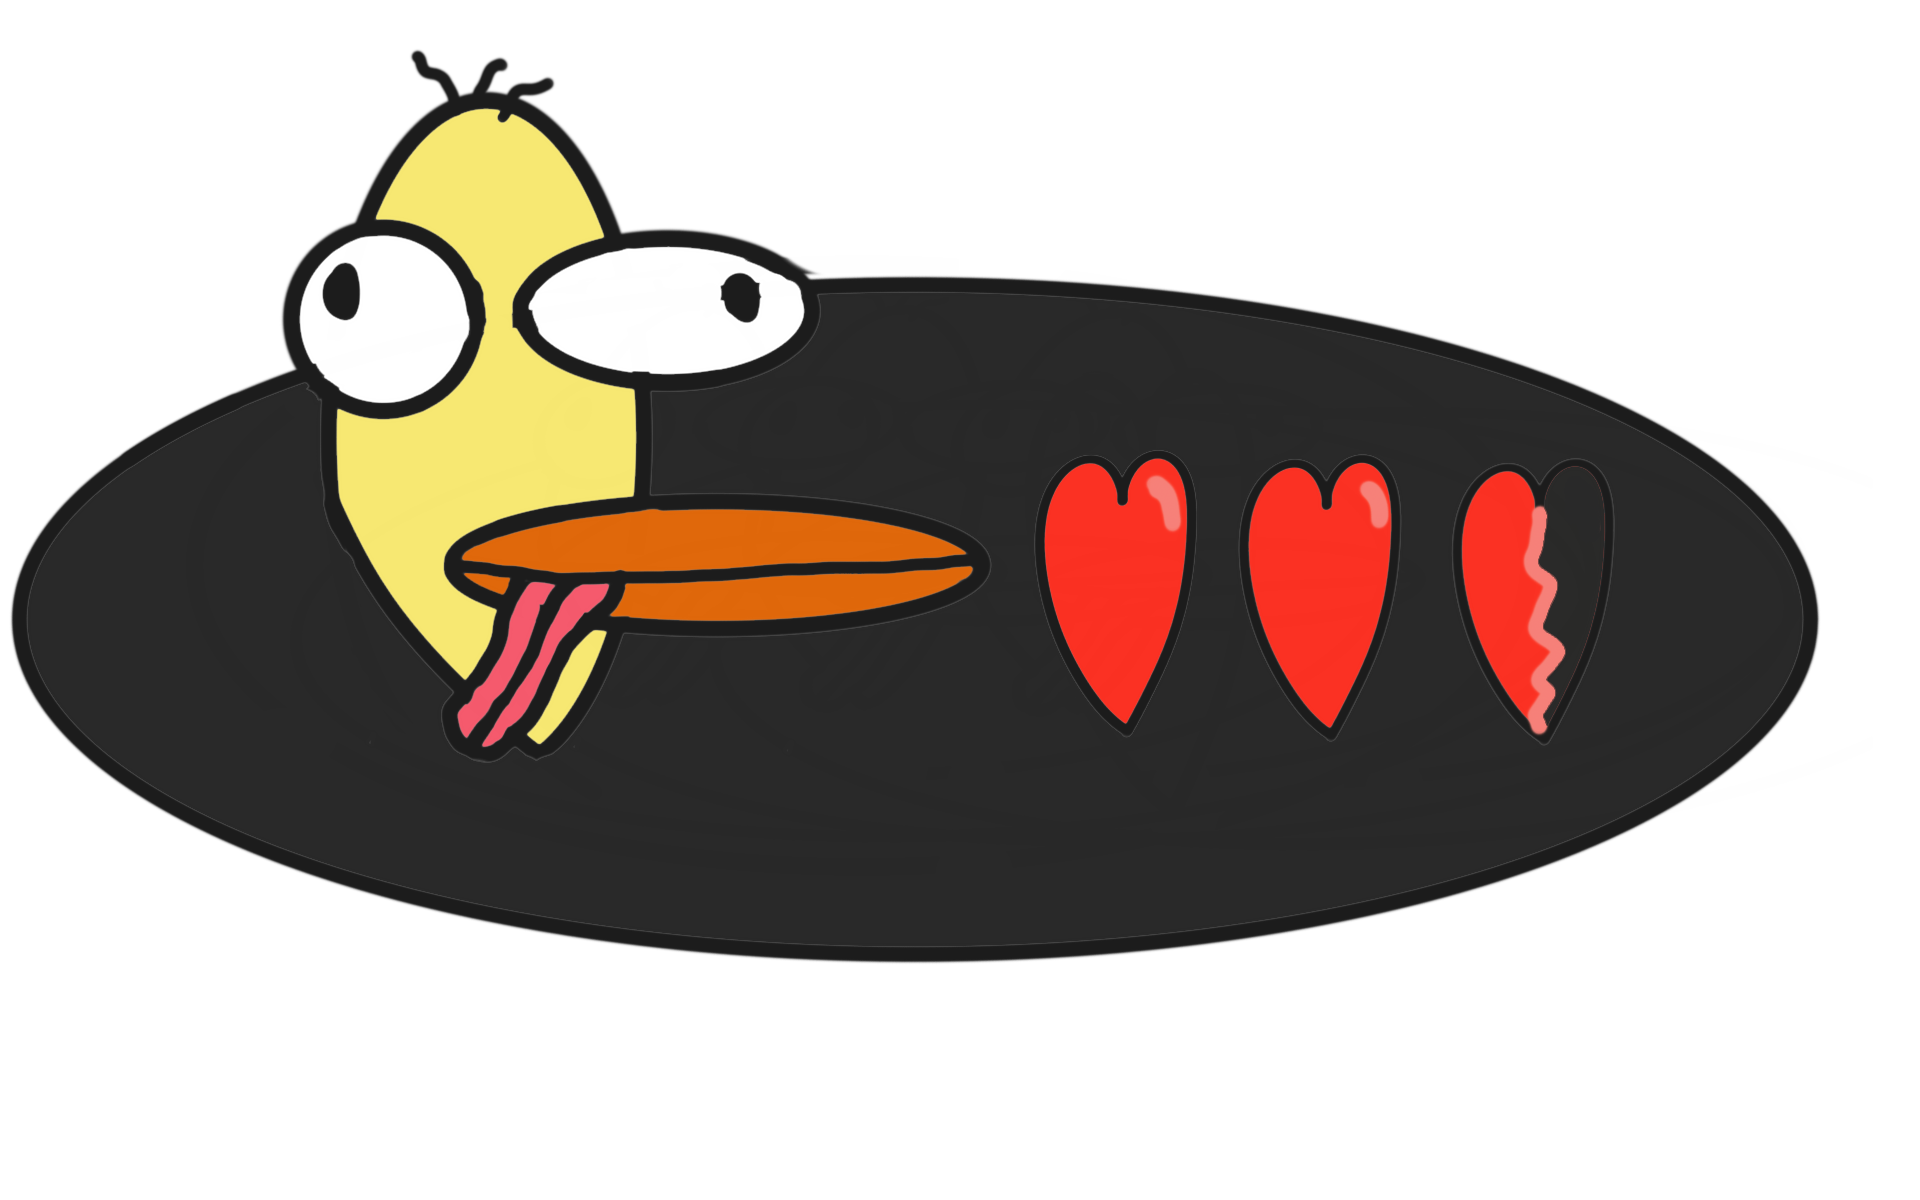
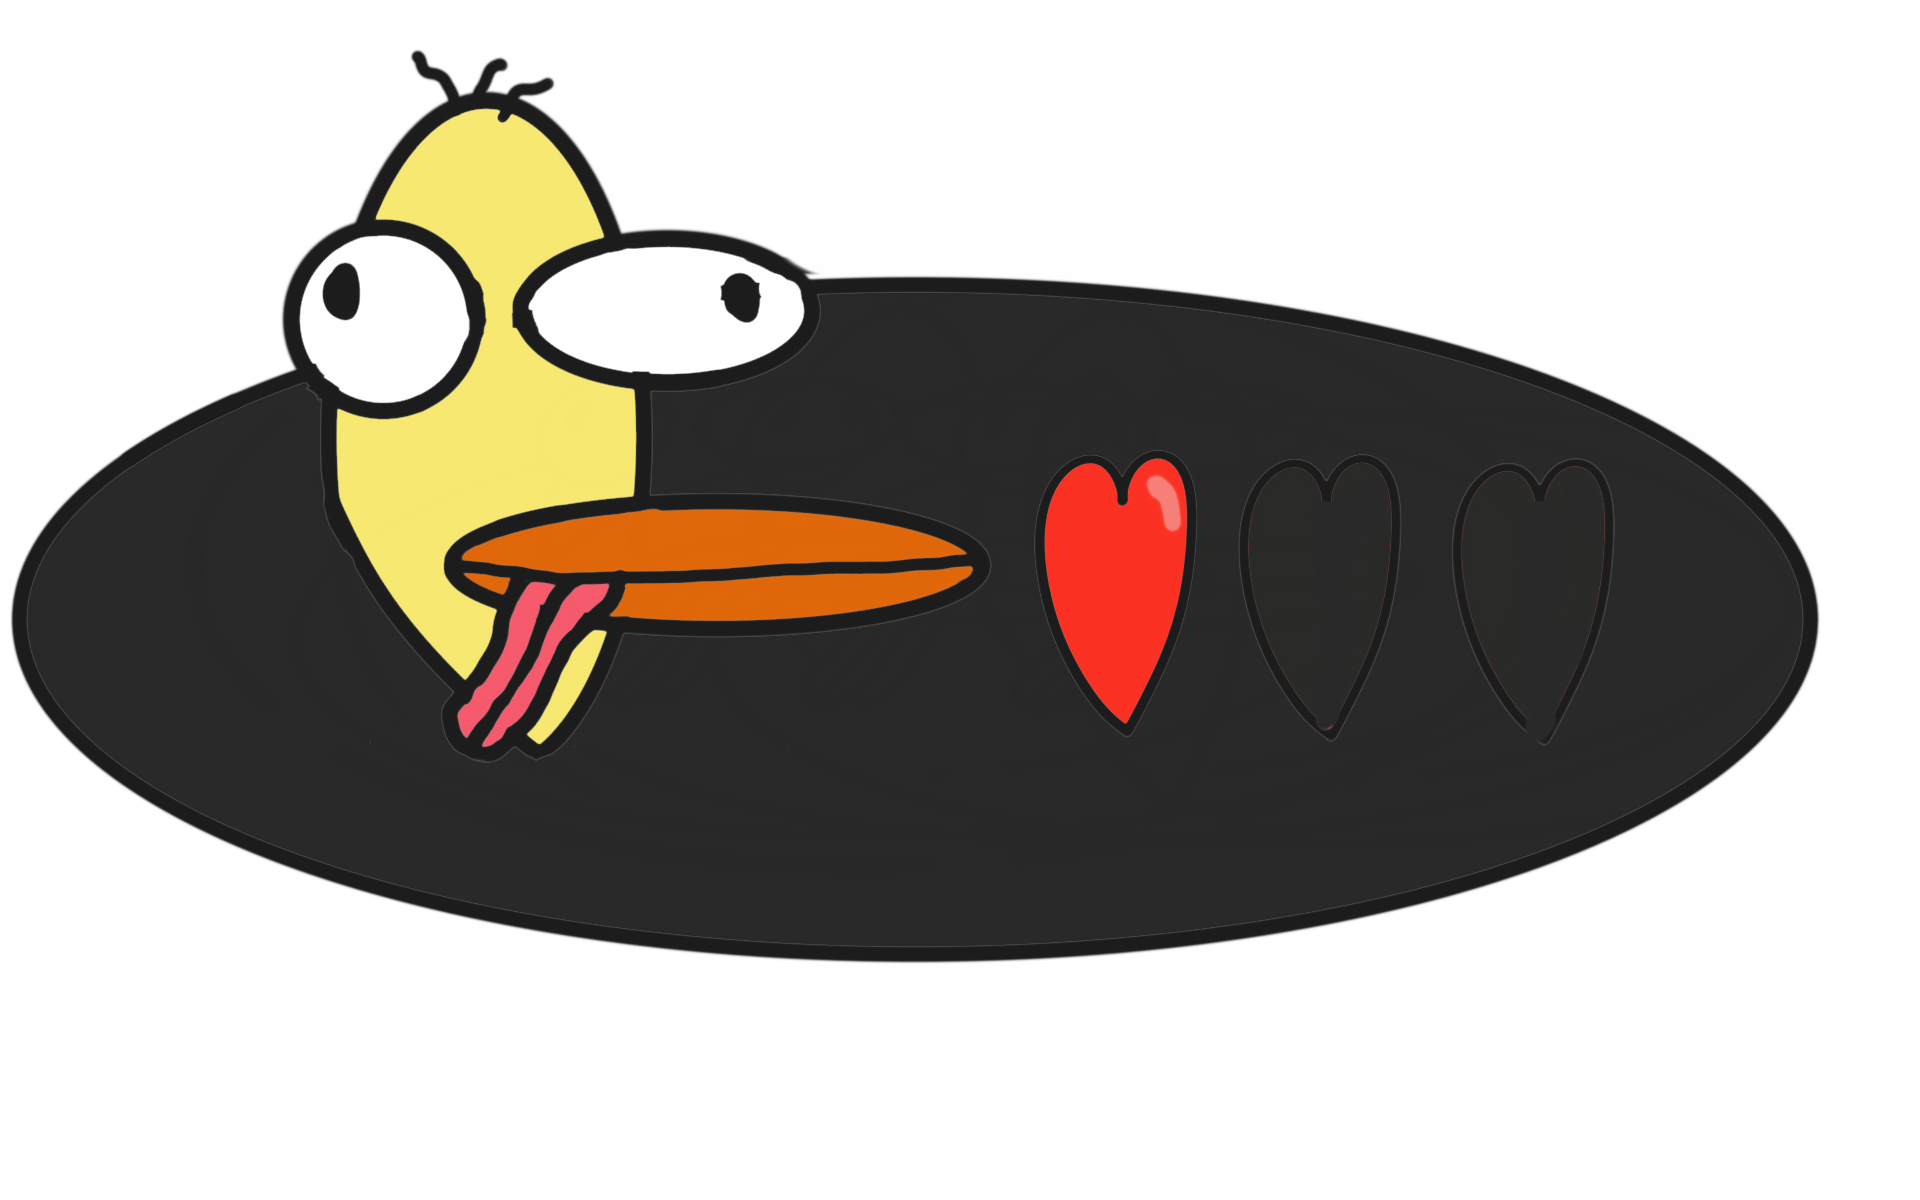
Update v1.2
Got the damage and death state to change the animations

Changed region(s): [[0.625, 0.37, 0.8125, 0.6167]]

diff --git a/Super Bird Game Prototype/core/src/com/procode/game/scenes/HUD.java b/Super Bird Game Prototype/core/src/com/procode/game/scenes/HUD.java
@@ -3,12 +3,15 @@ package com.procode.game.scenes;
 import com.badlogic.gdx.Gdx;
 import com.badlogic.gdx.graphics.Color;
 import com.badlogic.gdx.graphics.OrthographicCamera;
+import com.badlogic.gdx.graphics.Texture;
 import com.badlogic.gdx.graphics.g2d.BitmapFont;
 import com.badlogic.gdx.graphics.g2d.SpriteBatch;
+import com.badlogic.gdx.graphics.g2d.TextureRegion;
 import com.badlogic.gdx.scenes.scene2d.Stage;
 import com.badlogic.gdx.scenes.scene2d.ui.Image;
 import com.badlogic.gdx.scenes.scene2d.ui.Label;
 import com.badlogic.gdx.scenes.scene2d.ui.Table;
+import com.badlogic.gdx.scenes.scene2d.utils.TextureRegionDrawable;
 import com.badlogic.gdx.utils.Disposable;
 import com.badlogic.gdx.utils.viewport.FitViewport;
 import com.badlogic.gdx.utils.viewport.Viewport;
@@ -28,6 +31,7 @@ public class HUD implements Disposable {
     private Image healthBar;              // display the Health Bar
     private Image pauseBtn;               // display the Pause Button
     private Label scoreLabel;             // display the score
+    private Label livesLabel;             // displays the number of lives
 
     public HUD(SuperBirdGame game){
         //Initialize Values
@@ -42,16 +46,19 @@ public class HUD implements Disposable {
         table.setFillParent(true); //Fit to screen
 
         //The Displays
-        healthBar = new Image(ImageFunctions.resize("screen icons//bird health 1.png", SuperBirdGame.ANDROID_WIDTH/7, SuperBirdGame.ANDROID_HEIGHT/5));
+        healthBar = new Image(ImageFunctions.resize("screen icons//bird health 6.png", SuperBirdGame.ANDROID_WIDTH/7, SuperBirdGame.ANDROID_HEIGHT/5));
         pauseBtn = new Image(ImageFunctions.resize("screen icons//pause button.png", SuperBirdGame.ANDROID_WIDTH/35, SuperBirdGame.ANDROID_HEIGHT/25));
         scoreLabel = new Label(String.format("%06d", score), new Label.LabelStyle(new BitmapFont(), Color.WHITE));
         scoreLabel.setFontScale(2);
+        livesLabel = new Label(String.format("%02d", 3), new Label.LabelStyle(new BitmapFont(), Color.WHITE));
+        livesLabel.setFontScale(2);
 
 
         //Adding the displays to the screen  //--Change these to be more dynamic to the phone's screen res--/
         table.add(pauseBtn).padBottom(120).padLeft(20);
         table.add(healthBar).expandX().padTop(10).padRight(900).padBottom(60);
-        table.add(scoreLabel).expandX().padTop(10).padRight(50).padBottom(60);
+        table.add(scoreLabel).expandX().padTop(10).padRight(30).padBottom(60);
+        table.add(livesLabel).expandX().padBottom(50);
 
 
         //Display table to screen
@@ -63,7 +70,8 @@ public class HUD implements Disposable {
     //Updates the healthbar with parameter of current health (gets called every time it gets hit)
     //--Nikko: Might change this to update as I can just use one method to update the healthbar and score label--//
     public void updateHealthBar(int currentHealth){
-       //Use currentHealth value and concatenate to find the respective image (i.e. "health(" + currentHealth + ").png)
+        Texture newHealth = ImageFunctions.resize("screen icons//bird health " + String.valueOf(currentHealth) + ".png", SuperBirdGame.ANDROID_WIDTH/7, SuperBirdGame.ANDROID_HEIGHT/5);
+        healthBar.setDrawable(new TextureRegionDrawable(new TextureRegion(newHealth)));
     }
 
     @Override

diff --git a/Super Bird Game Prototype/core/src/com/procode/game/sprites/Bird.java b/Super Bird Game Prototype/core/src/com/procode/game/sprites/Bird.java
@@ -4,6 +4,7 @@ import com.badlogic.gdx.graphics.Texture;
 import com.badlogic.gdx.graphics.g2d.SpriteBatch;
 import com.badlogic.gdx.math.Vector2;
 import com.badlogic.gdx.utils.Disposable;
+import com.procode.game.scenes.HUD;
 import com.procode.game.tools.Animation;
 
 public class Bird implements Disposable {
@@ -12,16 +13,19 @@ public class Bird implements Disposable {
 
     public enum State {IDLE, SHOOT, DAMAGED, DEAD};  // different states of the bird
     private Animation birdAnimation; // takes in an animation class to allow for changing of animation played and other settings
-    private float healthCount;
+    private int healthCount;
     private Vector2 position;
     private Vector2 velocity;
+    private boolean isDead;         //checks to see if the bird is dead
+    private int numLives;           //number of lives the bird has (default is 3)
 
     public Bird(int x, int y, int birdWidth, int birdHeight) {
         birdAnimation = new Animation();
         healthCount = 6;
         position = new Vector2(x,y);
         velocity = new Vector2(0,0);
-
+        isDead = false;
+        numLives = 3;
         BirdWidth = birdWidth;
         BirdHeight = birdHeight;
 
@@ -32,9 +36,9 @@ public class Bird implements Disposable {
     // updates the bird every frame
     public void update(float deltaTime){
         if(birdAnimation.isAnimFinished() && !birdAnimation.getIsLoop()){ // play animation once
-            //reset to idle animation again
+            //reset to the IDLE animation
             switchAnimations(Bird.State.IDLE);
-        }else{
+        }else{//continue updating the frame
             birdAnimation.updateFrame(deltaTime);
         }
 
@@ -82,7 +86,28 @@ public class Bird implements Disposable {
 
     //--TEST--//
     public void shoot() {
-        switchAnimations(Bird.State.SHOOT);
+        switchAnimations(State.SHOOT);
+    }
+
+    public void deadBird(HUD hud){
+        if(numLives <= 0){
+            //Play Game Over Screen
+        }else{
+            numLives--; //reduces a life
+            switchAnimations(State.DEAD);
+            //reset the healthbar, healthcount (basically everything related to the bird)
+            healthCount = 6;
+            hud.updateHealthBar(healthCount);
+        }
+    }
+
+    public void damagedBird(HUD hud){
+        switchAnimations(State.DAMAGED);
+        this.healthCount--;                     //reduced the health if bird is damaged
+        if(this.healthCount <= 0){
+            this.deadBird(hud);
+        }
+        hud.updateHealthBar(this.healthCount);  //updates the healthbar to display the change in health
     }
 
     @Override

diff --git a/Super Bird Game Prototype/core/src/com/procode/game/screens/PlayScreen.java b/Super Bird Game Prototype/core/src/com/procode/game/screens/PlayScreen.java
@@ -54,7 +54,7 @@ public class PlayScreen implements Screen {
     public static int count = 0;
     public void handleInput(float dt){
         if(Gdx.input.isTouched()){
-            player.shoot();
+            player.damagedBird(hud);
         }
 
     }
